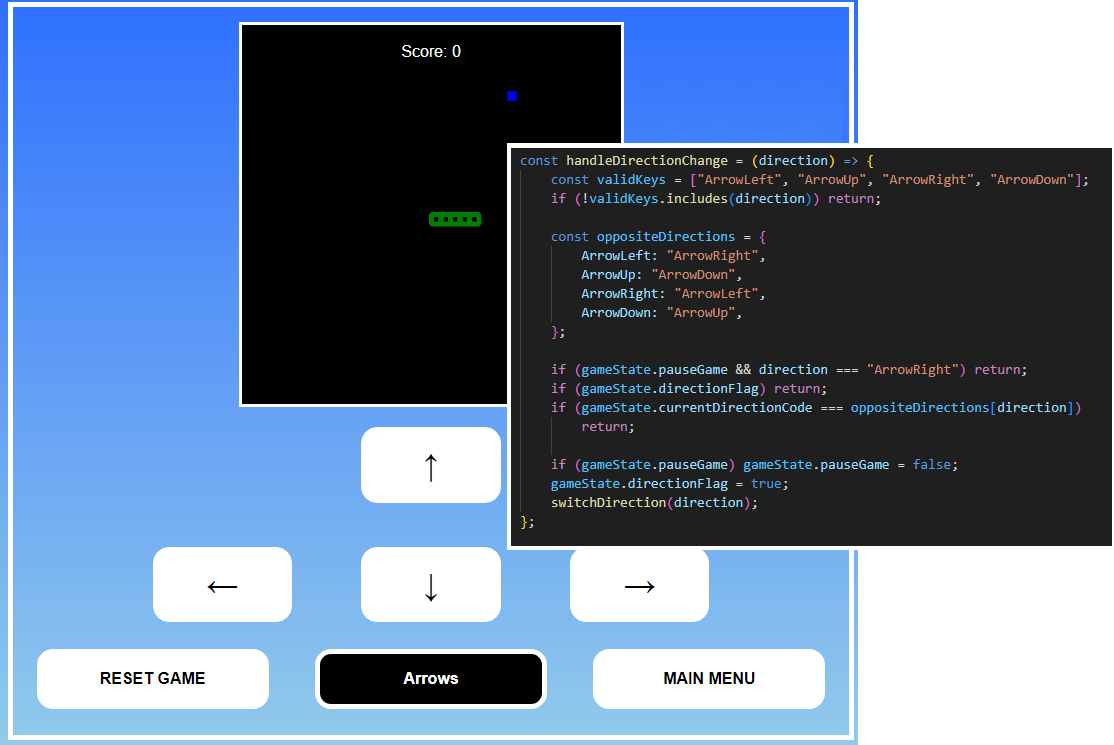
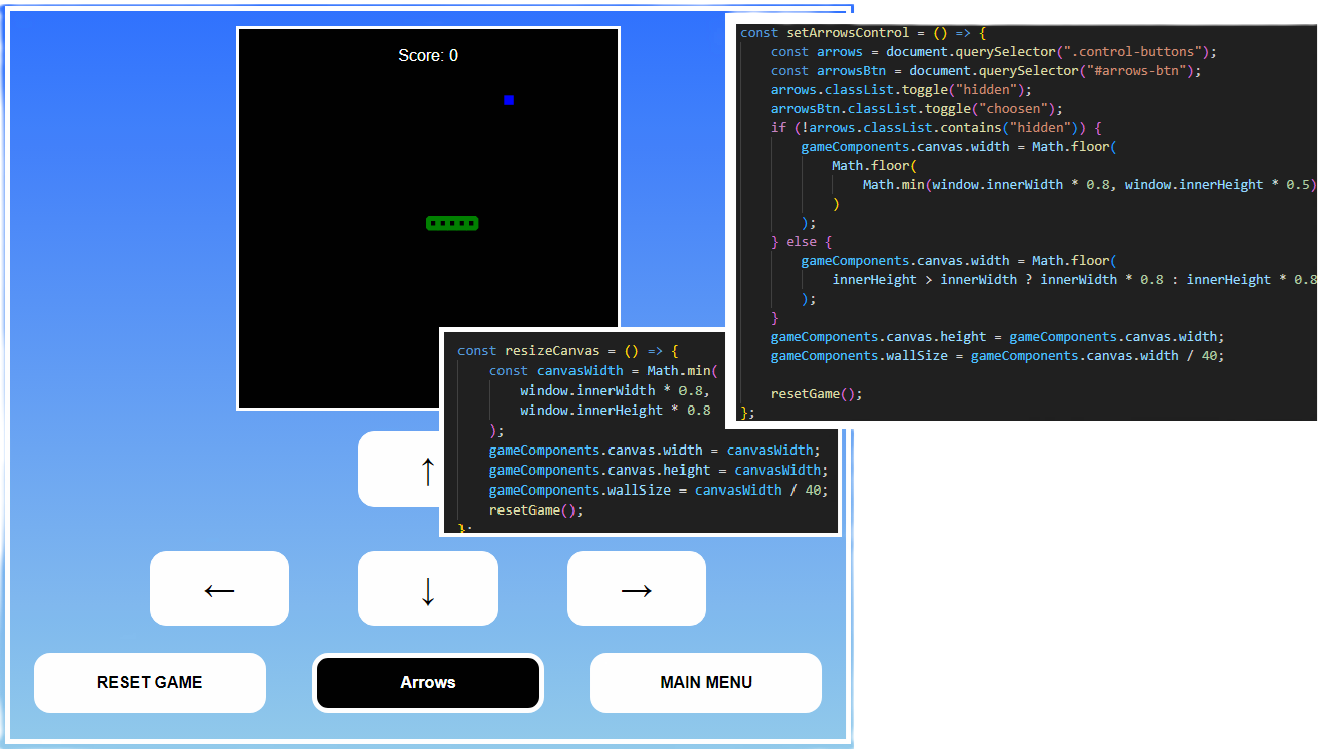
Pictures and links update

diff --git a/src/data/myworkData.tsx b/src/data/myworkData.tsx
@@ -79,28 +79,19 @@ export const myWorkData: myWorkInterface[] = [
                     `Simple weather application fetching the API weather data`,
                     `Created using React and Typescript`,
                 ],
-                href: {
-                    link: "https://github.com/rhalupczok/Weather-Application/tree/master/src",
-                    desc: "Complete repositorium on GITHUB",
-                },
             },
             {
                 img: "images/myWork/popup-weather-1.png",
                 text: [
                     `The city is set using GPS data (by default) or can be input by user`,
-                    `All data is catching using react components / props etc.`,
                 ],
             },
             {
                 img: "images/myWork/popup-weather-2.png",
                 text: [
-                    "Added sun walk effect.",
+                    "Sun walk effect.",
                     "The sun is going from the sunrise to sunset symbol taken into account the time of sunrise/sunset from fetched data and current time",
                 ],
-                href: {
-                    link: "https://github.com/rhalupczok/Weather-Application/blob/44e7837cc951be6553c356640cc62815244dae4c/src/components/CurrentWeather.tsx#L11",
-                    desc: "Part of code - sunwalk effect",
-                },
             },
         ],
     },
@@ -117,22 +108,14 @@ export const myWorkData: myWorkInterface[] = [
                 text: [
                     `The game was created inspired by standard Air Hockey game which you can find in many touristic places.`,
                     `At the begining I saw a simple pong game and decided to connect the pong game idea with phisics of colliding circle objects`,
-                    `It is one on my first projects made directly after I met first JavaScript possibilities. Using classes, expressions. The canvas size adjusting to screen dimension and whole layout depends on size of screen and the type of device (f.eg. touchpad is displayed when mobile phone.)`,
+                    `It is one on my first projects made directly after I met first JavaScript possibilities. Using classes, expressions, RWD`,
                 ],
-                href: {
-                    link: "https://github.com/rhalupczok/Air-Hockey",
-                    desc: "Complete repositorium on GITHUB",
-                },
             },
             {
                 img: "images/myWork/popup-airhockey-1.png",
                 text: [
                     `Player can be control by mouse or touchpad on mobile devices`,
                 ],
-                href: {
-                    link: "https://github.com/rhalupczok/Air-Hockey/blob/46bebdb416639659070b656af910f70b3b4b4566/main.js#L596",
-                    desc: "Part of code - control",
-                },
             },
             {
                 img: "images/myWork/popup-airhockey-2.png",
@@ -142,20 +125,12 @@ export const myWorkData: myWorkInterface[] = [
                     `There is also taken into account the table friction to add more reality`,
                     `When the time is up, the friction is increased like in real AirHockey game`,
                 ],
-                href: {
-                    link: "https://github.com/rhalupczok/Air-Hockey/blob/46bebdb416639659070b656af910f70b3b4b4566/main.js#L343",
-                    desc: "Part of code - phisics",
-                },
             },
             {
                 img: "images/myWork/popup-airhockey-3.png",
                 text: [
                     `There is added simple AI Player logic - Tries to save the goal and score`,
                 ],
-                href: {
-                    link: "https://github.com/rhalupczok/Air-Hockey/blob/46bebdb416639659070b656af910f70b3b4b4566/main.js#L402",
-                    desc: "Part of code - AI",
-                },
             },
         ],
     },
@@ -169,11 +144,7 @@ export const myWorkData: myWorkInterface[] = [
         popupData: [
             {
                 img: "images/myWork/popup-pocket-organiser-0.png",
-                text: [`Simple app for task or shopping list`],
-                href: {
-                    link: "https://github.com/rhalupczok/Pocket-Organiser",
-                    desc: "Complete repositorium on GITHUB",
-                },
+                text: [`Simple app for task and shopping list`],
             },
             {
                 img: "images/myWork/popup-pocket-organiser-1.png",
@@ -187,29 +158,17 @@ export const myWorkData: myWorkInterface[] = [
                 text: [
                     `Language can be directly switched by onClick on the flag`,
                 ],
-                href: {
-                    link: "https://github.com/rhalupczok/Pocket-Organiser/blob/8e018d4cb854b6eede0b46bfc7f11cfa7b25ebb4/main.js#L440C9-L440C9",
-                    desc: "Part of code - Langue selection",
-                },
             },
             {
                 img: "images/myWork/popup-pocket-organiser-3.png",
                 text: [
                     `The items can be filter by shop name`,
-                    `Popup window is free moveable`,
+                    `Popup window is free movable`,
                 ],
-                href: {
-                    link: "https://github.com/rhalupczok/Pocket-Organiser/blob/8e018d4cb854b6eede0b46bfc7f11cfa7b25ebb4/main.js#L504",
-                    desc: "Part of code - move window",
-                },
             },
             {
                 img: "images/myWork/popup-pocket-organiser-4.png",
                 text: [`The data are kept in local storage`],
-                href: {
-                    link: "https://github.com/rhalupczok/Pocket-Organiser/blob/8e018d4cb854b6eede0b46bfc7f11cfa7b25ebb4/main.js#L413",
-                    desc: "Part of code - storage",
-                },
             },
             {
                 img: "images/myWork/popup-pocket-organiser-5.png",
@@ -232,39 +191,21 @@ export const myWorkData: myWorkInterface[] = [
                 text: [
                     `The game was created inspired by memories of iconic phone Nokia 3310.`,
                 ],
-                href: {
-                    link: "https://github.com/rhalupczok/Snake",
-                    desc: "Complete repositorium on GITHUB",
-                },
             },
             {
                 img: "images/myWork/popup-snake-1.png",
-                text: [
-                    `Level define the Snake speed and amount of points for each food.`,
-                ],
-            },
-            {
-                img: "images/myWork/popup-snake-2.png",
                 text: [
                     `3 way of control:`,
                     `-Keyboard arrows`,
                     `-Wirtual keyboard`,
                     `-By touching the game area - Snake will follow the touch`,
                 ],
-                href: {
-                    link: "https://github.com/rhalupczok/Snake/blob/dbebc3df3e0f3719ef8787b385b00096c9a845ec/snake.js#L260",
-                    desc: "Part of code - control",
-                },
             },
             {
-                img: "images/myWork/popup-snake-3.png",
+                img: "images/myWork/popup-snake-2.png",
                 text: [
-                    `The dimensions of canvas depends on screen size and visibility of virtual arrows.`,
+                    `RWD - The dimensions of canvas depends on screen size and visibility of virtual arrows.`,
                 ],
-                href: {
-                    link: "https://github.com/rhalupczok/Snake/blob/dbebc3df3e0f3719ef8787b385b00096c9a845ec/snake.js#L350",
-                    desc: "Part of code - resize canvas",
-                },
             },
         ],
     },

diff --git a/src/data/tenziDescData.tsx b/src/data/tenziDescData.tsx
@@ -1,17 +1,17 @@
 export const diagramData = [
     {
         name: "Application",
-        description: "Simplified diagram of the application's operation.",
+        description: "Simplified diagram of the application's operations",
         src: `/mainDiagram.png`,
     },
     {
         name: "Server",
-        description: "Simplified diagram of server's operation",
+        description: "Simplified diagram of server's operations",
         src: `/serverDiagram.png`,
     },
     {
         name: "Refresh token rotation",
-        description: "Simplified diagram of authentication.",
+        description: "Simplified diagram of authentication process",
         src: `/refreshDiagram.png`,
     },
 ];
